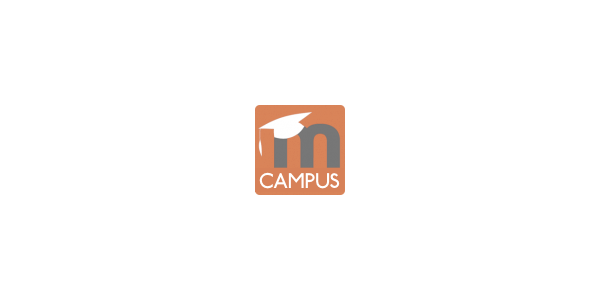
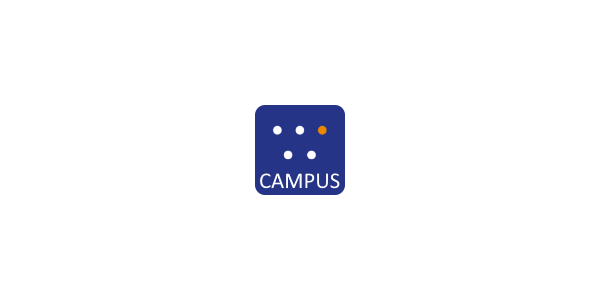
Wunderbyte corporate image.

Changed region(s): [[0.42, 0.33, 0.6, 0.66]]

diff --git a/scss/variables-campus.scss b/scss/variables-campus.scss
@@ -79,7 +79,7 @@ $input-disabled-bg:      $grayLighter !default;
 $dropdownDividerTop:            #e5e5e5 !default;
 $dropdownDividerBottom:         $white !default;
 
-$dropdown-link-hover-color:     darken($gray-900, 5%) !default;
+$dropdown-link-hover-color:     darken(#212529, 5%) !default;  // #212529 is gray-900.
 
 
 // Input placeholder text color
@@ -137,7 +137,7 @@ $contentColor: #fff !default;
 // Scaffolding
 // -------------------------
 // http://colorschemedesigner.com/#1631Tndw0w0w0
-$bodyBackgroundAlt:     #feee36 !default;
+$bodyBackgroundAlt:     #263683 !default;
 $themeBackground:       $grayLighter !default;
 $textShadow:            $grayLighter !default;  // Not set in lib.php.
 
@@ -178,11 +178,11 @@ $frontpageAbsolutePaddingBottom: 0% !default;
 $frontpageFlexPaddingBottom: 0% !default;
 
 // Carousel.
-$carouselColour: #ffd974 !default;
+$carouselColour: $bodyBackgroundAlt !default;
 $carouselTextColour: #ffffff !default;
-$slideButtonColour: #30add1 !default;
-$slideButtonHoverColour: #217a94 !default;
-$carouselActiveColour: #ffd974 !default;
+$slideButtonColour: #3a53c1 !default;
+$slideButtonHoverColour: #4f72ff !default;
+$carouselActiveColour: $bodyBackgroundAlt !default;
 
 // Course category.
 $courseCategoryHeaderHeightDefault: 70px !default;

diff --git a/scss/campuscustom.scss b/scss/campuscustom.scss
@@ -50,18 +50,18 @@ body {
     border-style: solid;
     border-width: 1px;
     bottom: 60px;
-    color: $body-color;
+    color: #eee;
     display: none;
     font-size: 32px;
     line-height: 1;
-    padding: 10px 10px 6px 10px; 
+    padding: 8px 10px 6px 10px; 
     position: fixed;
     right: 20px;
     text-align: center; 
     text-decoration: none;
     &:hover {
         border-radius: 1em;
-        color: lighten($body-color, 10%);
+        color: #fff;
         text-decoration: none;
     }
     i.fa {
@@ -400,7 +400,8 @@ body.hidelocallogin .loginbox .loginsub { // See core_renderer::body_attributes(
     max-width: $pageWidthMaximum;
     padding-left: 20px;
     padding-right: 20px;
-    .fa {
+    .gotoBottom .fa,
+    .popover-region-toggle .fa {
         color: $navbarIconColour;
     }
     img.userpicture {
@@ -417,6 +418,7 @@ body.hidelocallogin .loginbox .loginsub { // See core_renderer::body_attributes(
         //line-height: $line-height-base + 4;
         //margin: ((($navbarHeight - $line-height-base) / 2) - 2) 0 ((($navbarHeight - $line-height-base) / 2) - 2);
         //max-height: $line-height-base + 4;
+        color: $navbarText;
         max-width: $navbarPageHeadingMax;
         padding: 0 5px 0 5px;
         overflow: hidden;

diff --git a/scss/bootstrapchanges.scss b/scss/bootstrapchanges.scss
@@ -157,19 +157,14 @@ textarea, .uneditable-input {
 //  background-color: $navbarInverseText;
 //}
 
-.navbar-text a {
-  color: $navbarText;
+.navbar-text a,
+.navbar .nav > li > a,
+a.dropdown-toggle {
+  color: $navbarLinkColor;
   // Hover/focus state
   &:hover,
   &:focus {
-    color: $navbarText;
-  }
-}
-
-.navbar .nav > li > a {
-  &:hover,
-  &:focus {
-    color: $navbarText;
+    color: $navbarLinkColor;
   }
 }
 

diff --git a/settings.php b/settings.php
@@ -245,7 +245,7 @@ if ($ADMIN->fulltree) {
     $name = 'theme_campus/navbartextcolour';
     $title = get_string('navbartextcolour', 'theme_campus');
     $description = get_string('navbartextcolourdesc', 'theme_campus');
-    $default = '#190500';
+    $default = '#eeeeee';
     $previewconfig = null;
     $setting = new admin_setting_configcolourpicker($name, $title, $description, $default, $previewconfig);
     $setting->set_updatedcallback('theme_reset_all_caches');
@@ -255,17 +255,17 @@ if ($ADMIN->fulltree) {
     $name = 'theme_campus/navbarlinkcolour';
     $title = get_string('navbarlinkcolour', 'theme_campus');
     $description = get_string('navbarlinkcolourdesc', 'theme_campus');
-    $default = '#190500';
+    $default = '#eeeeee';
     $previewconfig = null;
     $setting = new admin_setting_configcolourpicker($name, $title, $description, $default, $previewconfig);
     $setting->set_updatedcallback('theme_reset_all_caches');
     $settingpage->add($setting);
 
-    // Navbar link colour setting.
+    // Navbar icon colour setting.
     $name = 'theme_campus/navbariconcolour';
     $title = get_string('navbariconcolour', 'theme_campus');
     $description = get_string('navbariconcolourdesc', 'theme_campus');
-    $default = '#000000';
+    $default = '#eeeeee';
     $previewconfig = null;
     $setting = new admin_setting_configcolourpicker($name, $title, $description, $default, $previewconfig);
     $setting->set_updatedcallback('theme_reset_all_caches');
@@ -275,7 +275,7 @@ if ($ADMIN->fulltree) {
     $name = 'theme_campus/navbarbackgroundcolour';
     $title = get_string('navbarbackgroundcolour', 'theme_campus');
     $description = get_string('navbarbackgroundcolourdesc', 'theme_campus');
-    $default = '#feee36';
+    $default = '#ec8600';
     $previewconfig = null;
     $setting = new admin_setting_configcolourpicker($name, $title, $description, $default, $previewconfig);
     $setting->set_updatedcallback('theme_reset_all_caches');
@@ -383,7 +383,7 @@ if ($ADMIN->fulltree) {
     $name = 'theme_campus/themecolour';
     $title = get_string('themecolour', 'theme_campus');
     $description = get_string('themecolourdesc', 'theme_campus');
-    $default = '#feee36';
+    $default = '#263683';
     $previewconfig = null;
     $setting = new admin_setting_configcolourpicker($name, $title, $description, $default, $previewconfig);
     $setting->set_updatedcallback('theme_reset_all_caches');
@@ -987,7 +987,7 @@ if ($ADMIN->fulltree) {
     $name = 'theme_campus/slidebuttoncolour';
     $title = get_string('slidebuttoncolour', 'theme_campus');
     $description = get_string('slidebuttoncolourdesc', 'theme_campus');
-    $default = '#30add1';
+    $default = '#3a53c1';
     $previewconfig = null;
     $setting = new admin_setting_configcolourpicker($name, $title, $description, $default, $previewconfig);
     $setting->set_updatedcallback('theme_reset_all_caches');
@@ -997,7 +997,7 @@ if ($ADMIN->fulltree) {
     $name = 'theme_campus/slidebuttonhovercolour';
     $title = get_string('slidebuttonhovercolour', 'theme_campus');
     $description = get_string('slidebuttonhovercolourdesc', 'theme_campus');
-    $default = '#217a94';
+    $default = '#4f72ff';
     $previewconfig = null;
     $setting = new admin_setting_configcolourpicker($name, $title, $description, $default, $previewconfig);
     $setting->set_updatedcallback('theme_reset_all_caches');

diff --git a/lib.php b/lib.php
@@ -468,10 +468,8 @@ function theme_campus_sass_variables($theme) {
     if (!empty($theme->settings->navbartextcolour)) {
         $variables['navbarText'] = $theme->settings->navbartextcolour;
         $variables['navbarBrandColor'] = $theme->settings->navbartextcolour;
-        $variables['navbarLinkColor'] = $theme->settings->navbartextcolour;
     }
     if (!empty($theme->settings->navbarlinkcolour)) {
-        $variables['dropdown-link-hover-color'] = $theme->settings->navbarlinkcolour;
         $variables['navbarLinkColor'] = $theme->settings->navbarlinkcolour;
     }
     if (!empty($theme->settings->navbariconcolour)) {
